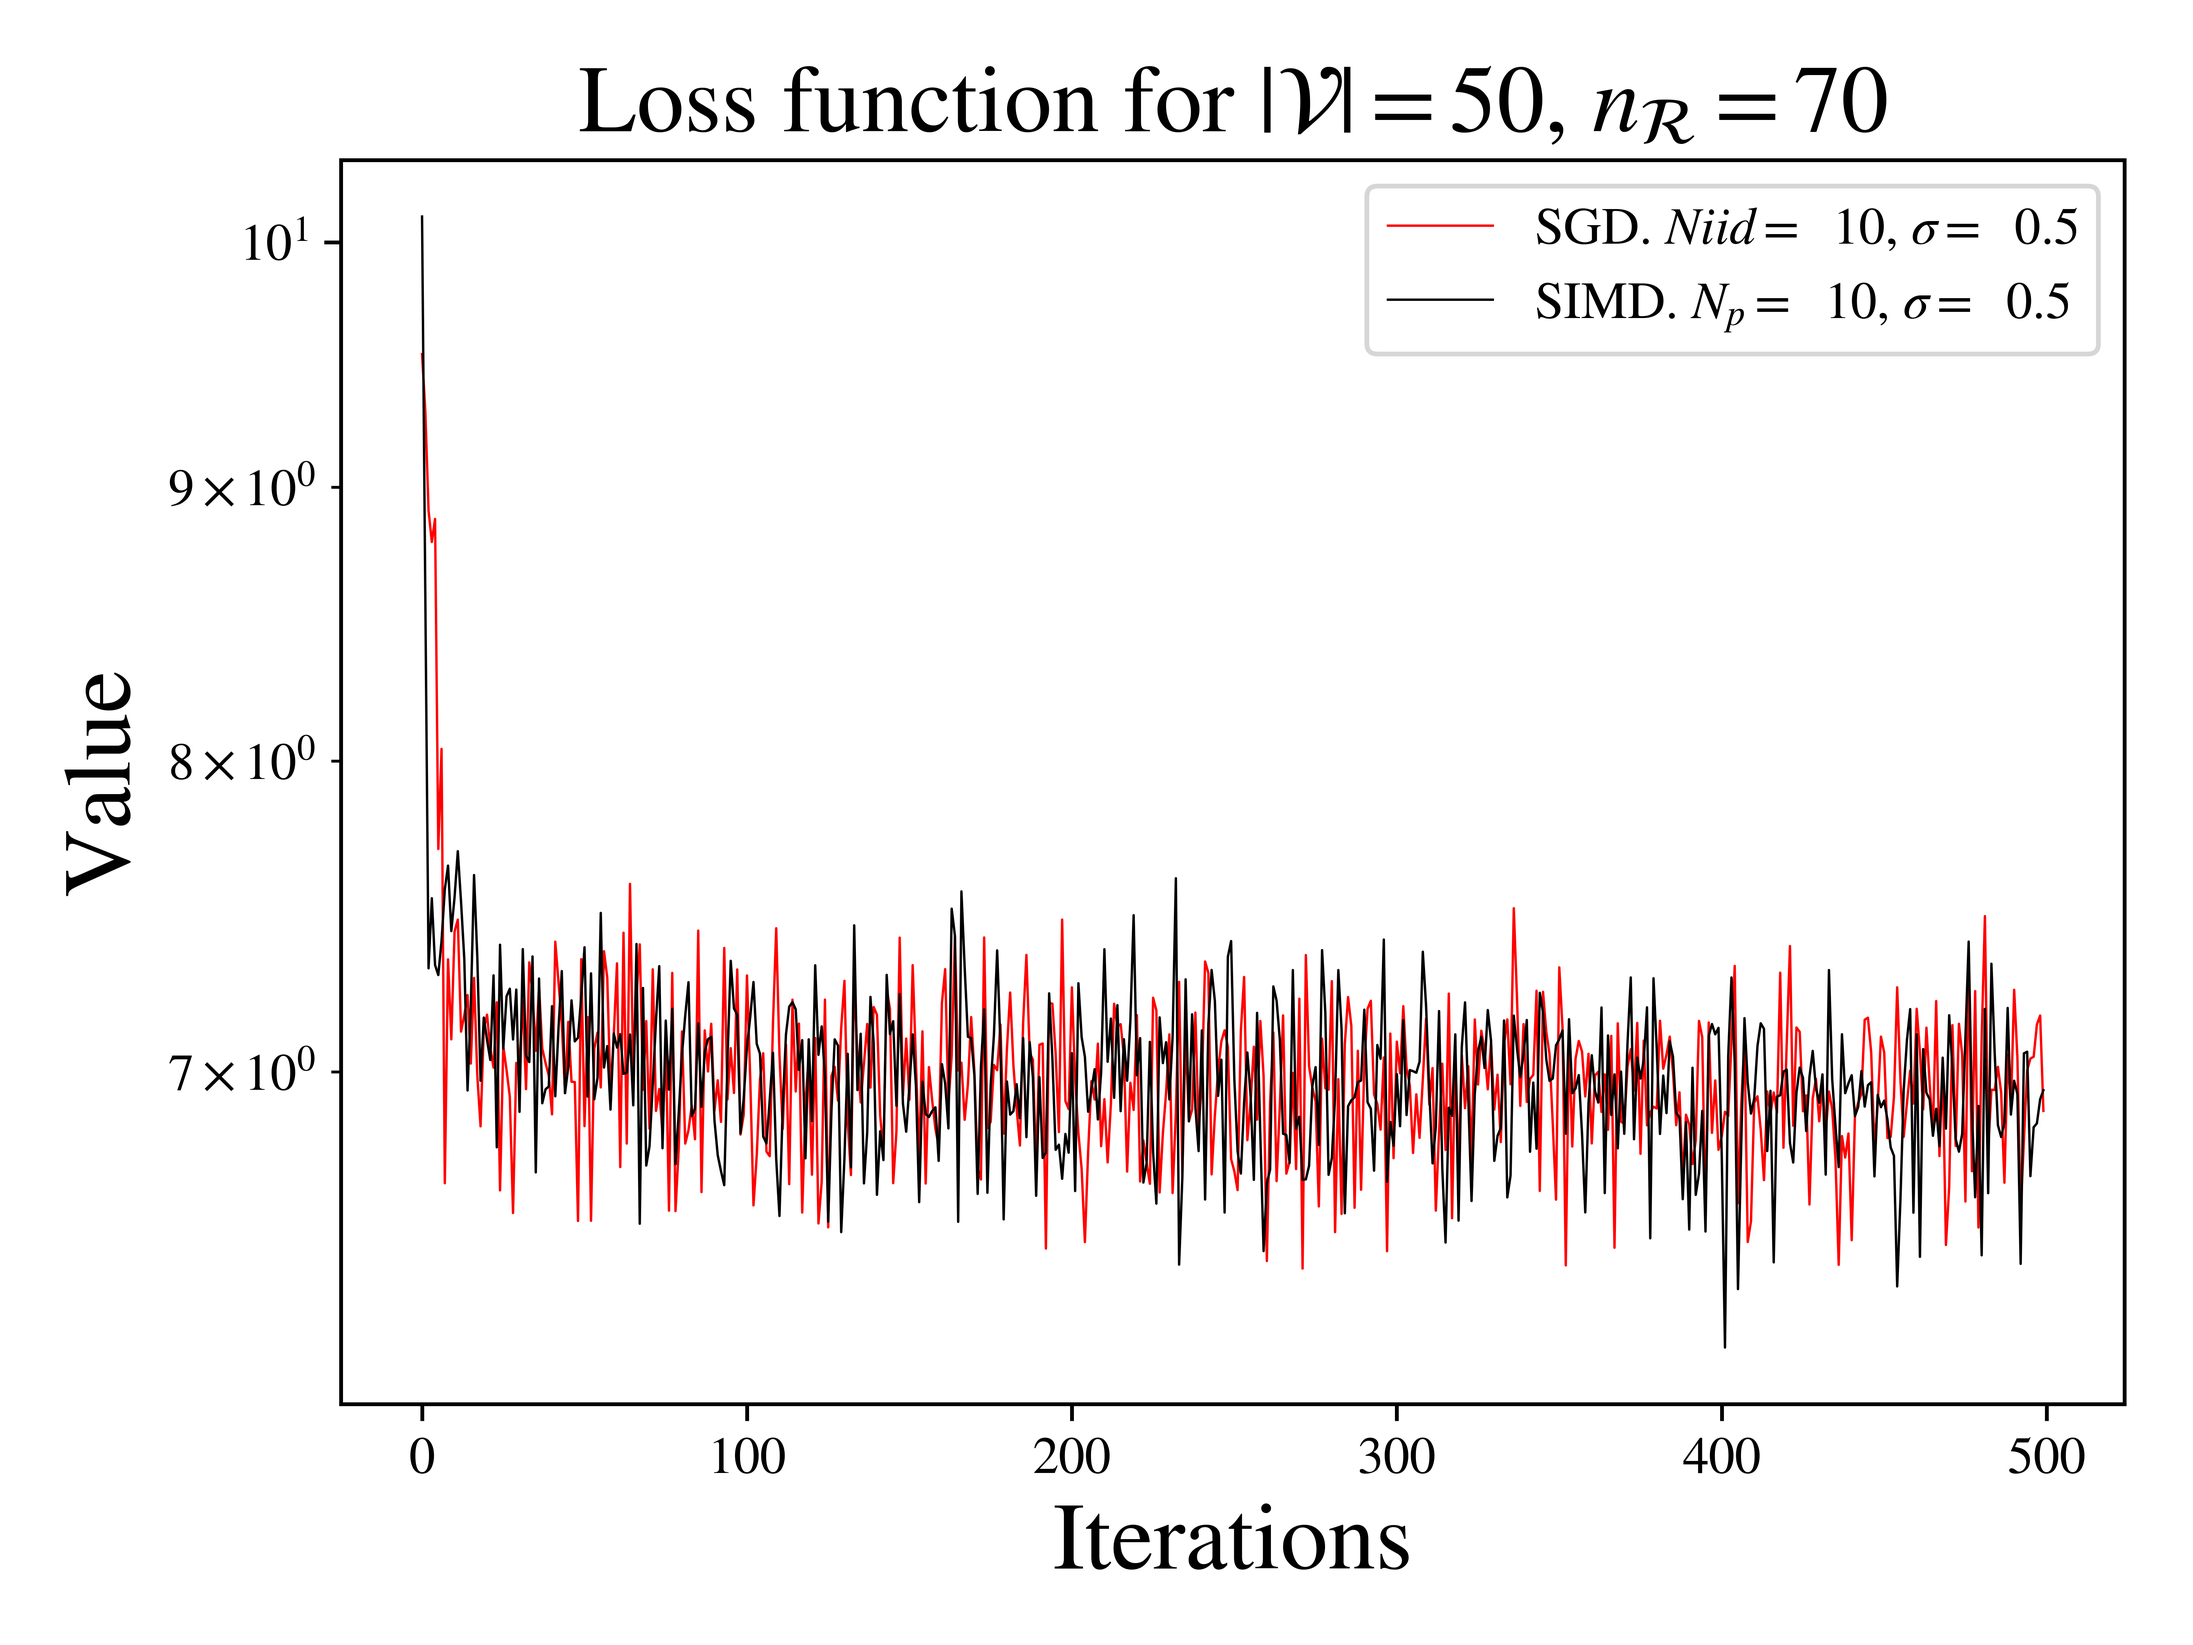
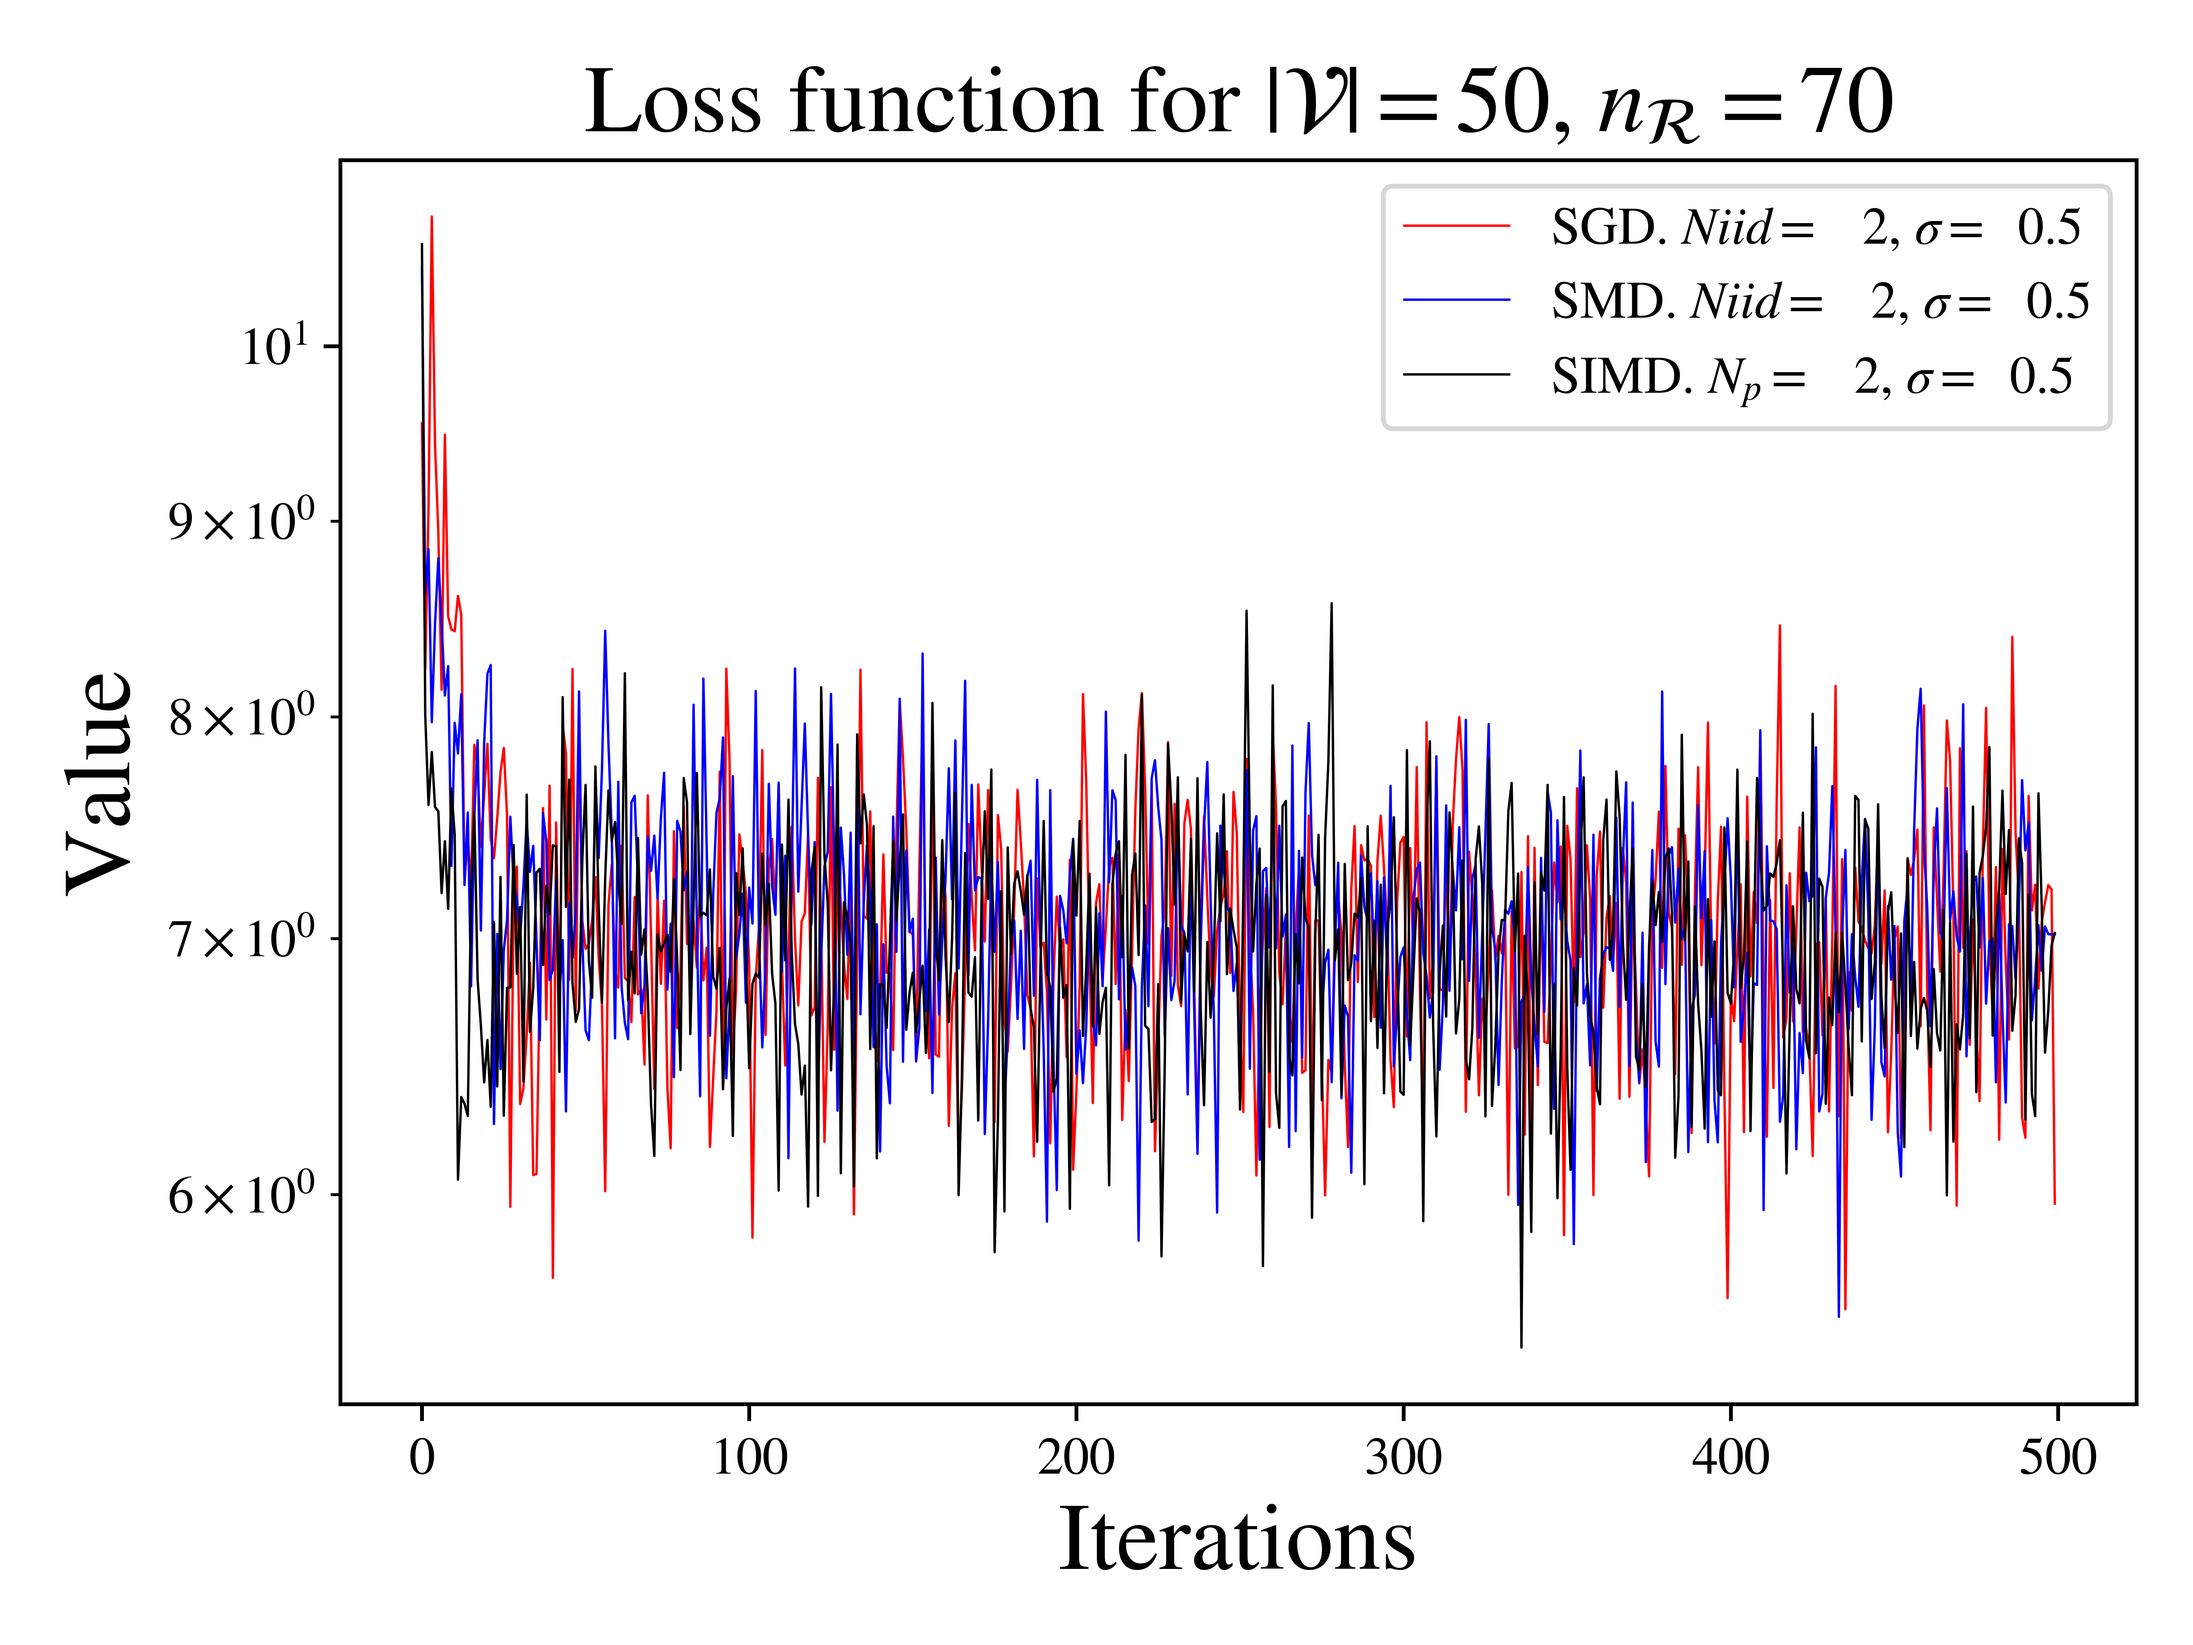
Deleted files

diff --git a/Laplacian Kmodes Clustering/kmodes.py b/Laplacian Kmodes Clustering/kmodes.py
@@ -31,6 +31,10 @@ class LaplacianKmodes():
             self.K = 2
             self.D = 2
             self.X, self.labels, self.C = self.generate_moons(cluster_std, random_state)
+        elif mode == 'spirals':
+            self.D = 2
+            self.X, self.labels, self.C = self.generate_spirals(cluster_std, random_state)
+
 
         self.C0 = self.C.clone()
         torch.manual_seed(random_state)
@@ -59,12 +63,37 @@ class LaplacianKmodes():
         y = torch.tensor(y).int()
 
         # centers = np.random.uniform(low=(X[:, 0].min(), X[:, 1].min()), high=(X[:, 0].max(), X[:, 1].max()), size=(2,2))
-
         ms = MeanShift(bandwidth=self.bandwidth, bin_seeding=True)
         ms.fit(X.numpy())
         cluster_centers = ms.cluster_centers_
         centers = torch.tensor(cluster_centers)
         centers = torch.tensor(centers).float()
+        return X, y, centers
+
+    def generate_spirals(self, cluster_std, random_state):
+        np.random.seed(random_state)
+        n_samples = int(self.N / self.K)
+        t = np.linspace(0, 20, n_samples)
+
+        X, y = [], []
+        angles = np.linspace(0, 2 * np.pi, self.K + 1)
+        for i in range(len(angles)-1):
+            c = angles[i]
+            x1 = t * np.cos(t+c)
+            x2 = t * np.sin(t+c)
+
+
+            x = np.concatenate((x1.reshape(1,-1), x2.reshape(1,-1)), axis=0)
+            x += cluster_std * np.random.randn(2, n_samples)
+            x = x.T
+            X.append(x)
+            y.append(np.ones(x.shape[0]) * i)
+
+        X = torch.tensor(X).reshape(-1, 2).double()
+        y = torch.tensor(y).reshape(-1).int()
+        centers = np.random.uniform(low=tuple(X.min(axis=0)[0]), high=tuple(X[:].max(axis=0)[0]), size=(self.K, self.D))
+        centers = torch.tensor(centers).float()
+        
         return X, y, centers
 
     def generate_affinity_matrix(self, bin=False):
@@ -73,7 +102,7 @@ class LaplacianKmodes():
             W = kneighbors_graph(self.X, int(self.N / self.K), mode='connectivity', include_self=True)
             W = torch.tensor(W.toarray()).float()
         else:
-            gamma = 0.5
+            gamma = 0.9
             X1 = self.X.clone().reshape(self.N, 1, self.D)
             X2 = self.X.clone().reshape(1, self.N, self.D)
             dist = torch.sum(torch.pow(X1-X2, 2), axis=-1)
@@ -122,6 +151,7 @@ class LaplacianKmodes():
             G_norm = normal.pdf(norm)
             grad_C[k] = (-2 * Z[:,k] * norm * G_norm) @ X / self.bandwidth
         return grad_C + self.sigma * torch.randn((self.C.shape))
+
     def eval_accuracy(self):
 
         true = self.labels
@@ -198,10 +228,10 @@ class LaplacianKmodes():
 
 if __name__ == '__main__':
     N = 1000
-    D = 3
+    D = 2
     K = 5
 
-    C =  LaplacianKmodes(N, D, K, 1, 1, 1, mode='blobs')
-    C.plot_3d_clusters(C=C.C)
+    C =  LaplacianKmodes(N, D, K, 1, 1, 0.1, mode='spirals')
+    C.plot_2d_clusters()
     Z =  torch.ones(N,K) /K
     print(C.eval(Z))

diff --git a/Traffic_Assignment/plot.py b/Traffic_Assignment/plot.py
@@ -4,14 +4,14 @@ import numpy as np
 from helper_functions.save_load import load_obj
 
 plt.rcParams['font.size'] = '11'
-plt.rcParams['lines.linewidth'] = 0.5
+plt.rcParams['lines.linewidth'] = 2
 plt.rcParams['mathtext.fontset'] = 'stix'
 plt.rcParams['font.family'] = 'STIXGeneral'
 
 path = "./saved_items/50Nodes/Results/"
-path_gd = path + "cutoff5/GD_Niid_2_iters_500"
-path_md = path + "cutoff5/MD_Niid_2_iters_500"
-path_imd = path + "cutoff5/IMD_Np_10_iters_500"
+path_gd = path + "cutoff5/GD_Niid_5_iters_500"
+path_md = path + "cutoff5/MD_Niid_5_iters_500"
+path_imd = path + "cutoff5/IMD_Np_5_iters_500"
 
 gd_losses = load_obj(path_gd)[0]
 md_losses = load_obj(path_md)[0]
@@ -24,25 +24,27 @@ decreasing_lr = load_obj(path_imd)[1]['decreasing_lr']
 print(sigma, Niid, num_particles, lr, decreasing_lr)
 
 plt.clf()
-plt.semilogy(np.array(gd_losses),'r', label='SGD. $ Niid = $ {:3}, $\sigma =$ {:4}'.format(Niid, sigma))
-plt.semilogy(np.array(md_losses),'b', label='SMD. $Niid =$ {:3}, $\sigma =$ {:4}'.format(Niid, sigma))
-plt.semilogy(np.array(imd_losses),'k', label='SIMD. $N_p =$ {:3}, $\sigma =$ {:4}'.format(num_particles, sigma))
+plt.semilogy(np.array(gd_losses),'r', label='GD. $ Niid = $ {:3}'.format(Niid))
+plt.semilogy(np.array(md_losses),'b', label='MD. $Niid =$ {:3}'.format(Niid))
+plt.semilogy(np.array(imd_losses),'k', label='IMD. $N_p =$ {:3}'.format(num_particles))
 plt.xlabel('Iterations', fontsize = 20)
 plt.ylabel('Value', fontsize = 20)
+plt.ylim(min(imd_losses) -0.05, 7.5 )
 plt.title('Loss function for $|\mathcal{V}| = 50$, $n_{\mathcal{R}} = 70$', fontsize = 20)
 plt.legend()
 plt.tight_layout()
-plt.savefig(path + "GD_IMD_sigma_{}.png".format(sigma), dpi=1000)
+plt.savefig(path + "GD_MD_IMD_sigm.png", dpi=1000)
 plt.show()
 #
 plt.figure()
 
 plt.clf()
-# title = 'Histogram after 100 iterations for $n = {}$, $\kappa(W)$ = {} '.format(d, condition)
+title = 'Histogram after 50 iterations for $|\mathcal{V}| = 50$, $n_{\mathcal{R}} = 70$'
 
-plt.hist(np.array(imd_losses)[50:], alpha=0.5, color='r',linewidth=0.5, label='SIMD')
-plt.hist(np.array(md_losses)[30:], alpha=0.7, color='b',linewidth=0.5, label='SMD')
-plt.hist(np.array(gd_losses)[50:], alpha=0.5, color='b',linewidth=0.5, label='SGD')
-plt.savefig(path + "Hist_GD_MD_IMD_sigma_{}.png".format(sigma), dpi=1000)
+plt.hist(np.array(gd_losses)[20:], color='r', alpha=0.7, label='GD. $ Niid = $ {:3}'.format(Niid))
+plt.hist(np.array(md_losses)[20:], color='b', alpha=0.7, label='MD. $Niid =$ {:3}'.format(Niid))
+plt.hist(np.array(imd_losses)[20:], color='k', alpha=0.7, label='IMD. $N_p =$ {:3}'.format(num_particles))
+plt.ylabel('Frequency', fontsize = 20)
 plt.legend()
-plt.show()
+plt.title(title, fontsize = 20)
+plt.savefig(path + "Hist_GD_MD_IMD.png", dpi=1000)

diff --git a/Laplacian Kmodes Clustering/try.py b/Laplacian Kmodes Clustering/try.py
@@ -1,10 +1,74 @@
-n_samples = 1500
-np.random.seed(0)
-t = 1.5 * np.pi * (1 + 3 * np.random.rand(1, n_samples))
-x = t * np.cos(t)
-y = t * np.sin(t)
+# import numpy as np
+# import matplotlib.pyplot as plt
+#
+# n_samples = 200
+# np.random.seed(0)
+# t = np.linspace(0, 10, n_samples)
+# y = []
+# angles = np.linspace(0, 2 * np.pi, 6)
+# XX = []
+# for (i,c) in enumerate(angles):
+#
+#     X1 = t * np.cos(t+c)
+#     X2 = t * np.sin(t+c)
+#
+#
+#     X = np.concatenate((X1.reshape(1,-1), X2.reshape(1,-1)), axis=0)
+#     # X += .1 * np.random.randn(2, n_samples)
+#     X = X.T
+#     XX.append(X)
+#     y.append(np.ones(X.shape[0]) * i)
+#
+#     plt.scatter(X[:,0], X[:,1])
+#
+# XX = np.array(XX).reshape(-1,2)
+# print(XX.shape)
+# y = np.array(y).reshape(-1)
+# print(y)
+# plt.savefig('figgg.png')
+
+import os
+import numpy as np
+import torch
+from run_opt import *
+import matplotlib.pyplot as plt
+if __name__ == "__main__":
+
+    eps = 1
+    max_iters = 50
+    N = 1800
+    D = 2
+    K = 4
+    lambd = 1
+    var = 0.01
+    cluster_std = 0.005
+    cluster_random_state = 0
+    sigma = 0
+    seed = 11
+    lr_gd = 0.00001
+    lr_md = 0.00001
+    lr_imd = 0.00001
+    decreasing_lr = True
+    Niid = 2
+    num_particles = 1
+    mode = 'spirals'
+    args_gd = {'N': N, 'D': D, 'K': K, 'lambd': lambd, 'var': var, 'cluster_std': cluster_std, 'cluster_random_state': cluster_random_state,
+        'sigma': sigma, 'lr': lr_gd, 'eps': eps, 'max_iters': max_iters, 'Niid': Niid, 'decreasing_lr': decreasing_lr, 'seed': seed, 'mode': mode}
+    args_md = {'N': N, 'D': D, 'K': K, 'lambd': lambd, 'var': var, 'cluster_std': cluster_std, 'cluster_random_state': cluster_random_state,
+        'sigma': sigma, 'lr': lr_md,'eps': eps, 'max_iters': max_iters, 'Niid': Niid, 'decreasing_lr': decreasing_lr, 'seed': seed, 'mode': mode}
+    args_imd = {'N': N, 'D': D, 'K': K, 'lambd': lambd, 'var': var, 'cluster_std': cluster_std, 'cluster_random_state': cluster_random_state,
+        'sigma': sigma, 'lr': lr_imd, 'eps': eps, 'max_iters': max_iters, 'num_particles': num_particles, 'decreasing_lr': decreasing_lr, 'seed': seed, 'mode': mode}
 
 
-X = np.concatenate((x, y))
-X += .7 * np.random.randn(2, n_samples)
-X = X.T
+    path = './N_{}_D_{}_K_{}_lambda_{}_var_{}_clusterstd_{}_{}/'.format(N, D, K, lambd, var, cluster_std, mode)
+
+    if not os.path.exists(path):
+        os.mkdir(path)
+
+    path_imd = path + 'IMD_Np_{}_lr_{}_iters_{}'.format(num_particles, lr_md, max_iters)
+    losses_imd, kmodes_imd = run_IMD(**args_imd)
+    y = kmodes_imd.Z.argmax(axis=1)
+    plt.figure()
+    kmodes_imd.plot_2d_clusters('1111',y=y, C=kmodes_imd.C)
+    torch.save(kmodes_imd, path_imd + '_model.pt')
+    save_obj((losses_imd, args_imd), path_imd)

diff --git a/Traffic_Assignment/run_opt.py b/Traffic_Assignment/run_opt.py
@@ -176,13 +176,13 @@ if __name__ == "__main__":
     path_filename = graph_filename + 'paths'
 
 
-    sigma = 0.5
-    lr = 0.005
+    sigma = 0.0
+    lr = 0.01
     lr_md = 0.2
-    Niid = 10
+    Niid = 5
     max_iters = 500
-    num_particles = 10
-    decreasing_lr = True
+    num_particles = 5
+    decreasing_lr = False
     eps = 1
     seed = 0
 
@@ -198,8 +198,8 @@ if __name__ == "__main__":
      'lr': lr_md, 'max_iters': max_iters, 'num_particles': num_particles, 'decreasing_lr': decreasing_lr, 'seed': seed}
 
 
-    losses_imd = run_IMD(**args_imd)
-    save_obj((losses_imd, args_imd), path + '/IMD_Np_' + str(num_particles) + '_iters_' + str(max_iters))
+    # losses_imd = run_IMD(**args_imd)
+    # save_obj((losses_imd, args_imd), path + '/IMD_Np_' + str(num_particles) + '_iters_' + str(max_iters))
     losses_gd = run_GD(**args_gd)
     save_obj((losses_gd, args_gd), path + '/GD_Niid_' + str(Niid) + '_iters_' + str(max_iters))
     losses_md = run_MD(**args_md)

diff --git a/Laplacian Kmodes Clustering/run_opt.py b/Laplacian Kmodes Clustering/run_opt.py
@@ -143,7 +143,7 @@ def run_IMD(N: int, D: int, K: int, lambd: float, var: float, cluster_std: float
 
     lr_const = 1
     kmodes = LaplacianKmodes(N, D, K, lambd, var, cluster_std, cluster_random_state, sigma, mode)
-
+    kmodes.plot_2d_clusters('0000')
     print()
     print('InterMD')
     print('-------')
